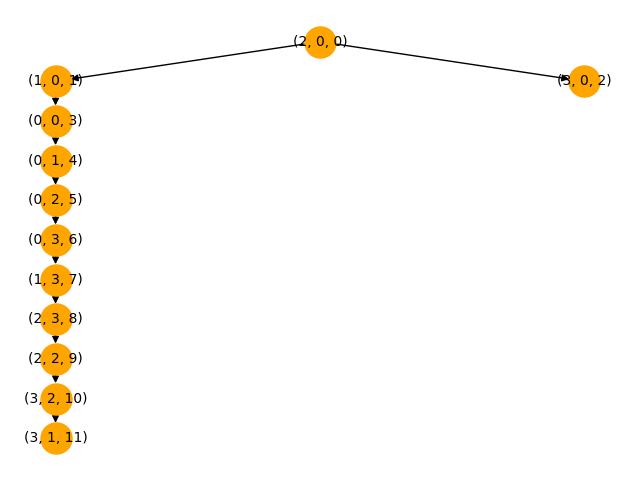
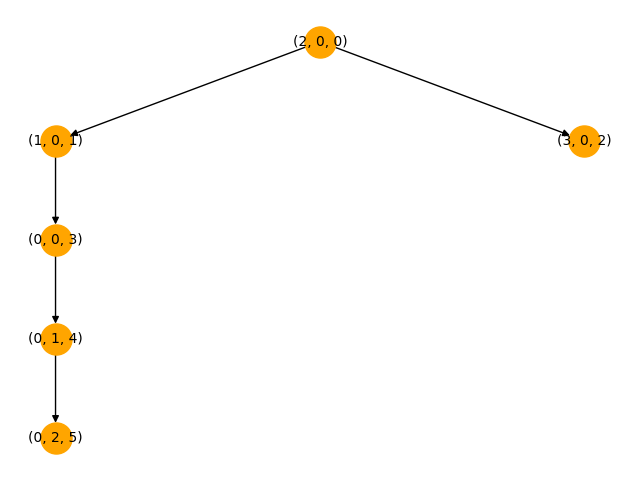
profunidad_coorde

diff --git a/main.py b/main.py
@@ -26,7 +26,7 @@ inicio = (2, 0)
 nodo_inicial = Nodo(2, 0, 0, 0, None)
 graph = GraficarArbol(nodo_inicial)
 lista_inicial = [nodo_inicial]
-maximo_iteraciones = 10
+maximo_iteraciones = 2
 
 for i in range(len(lista_algoritmos)):
     print("Algoritmo:", lista_algoritmos[i].__name__)
